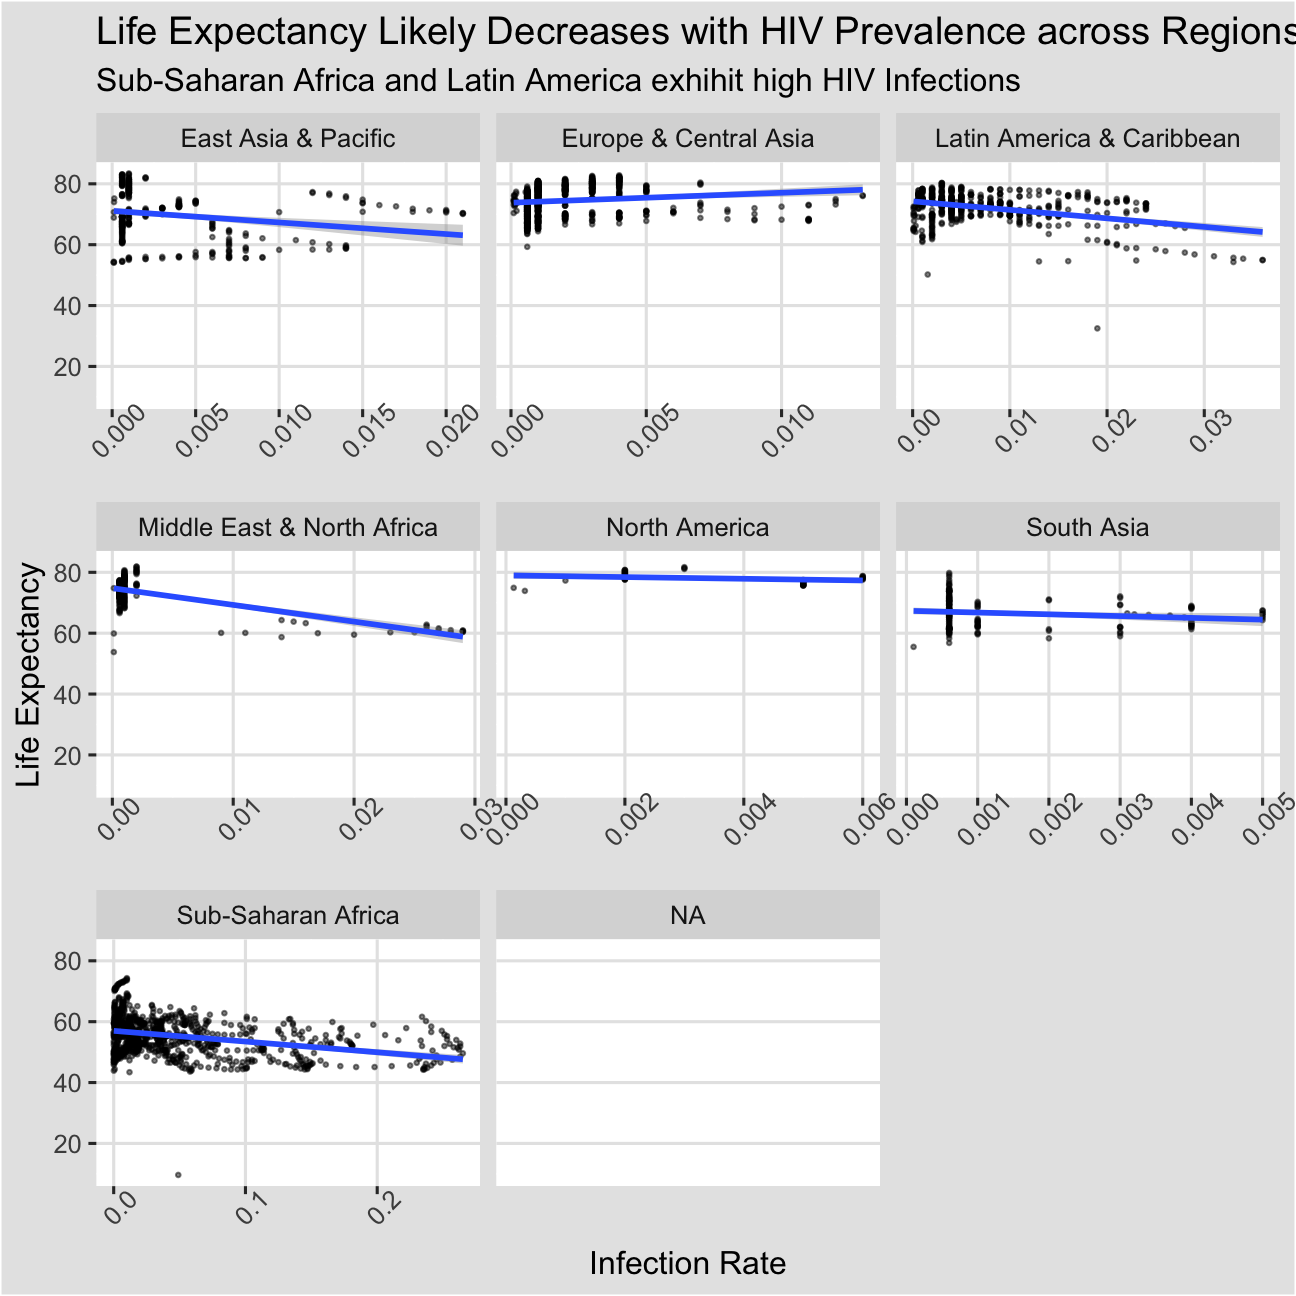
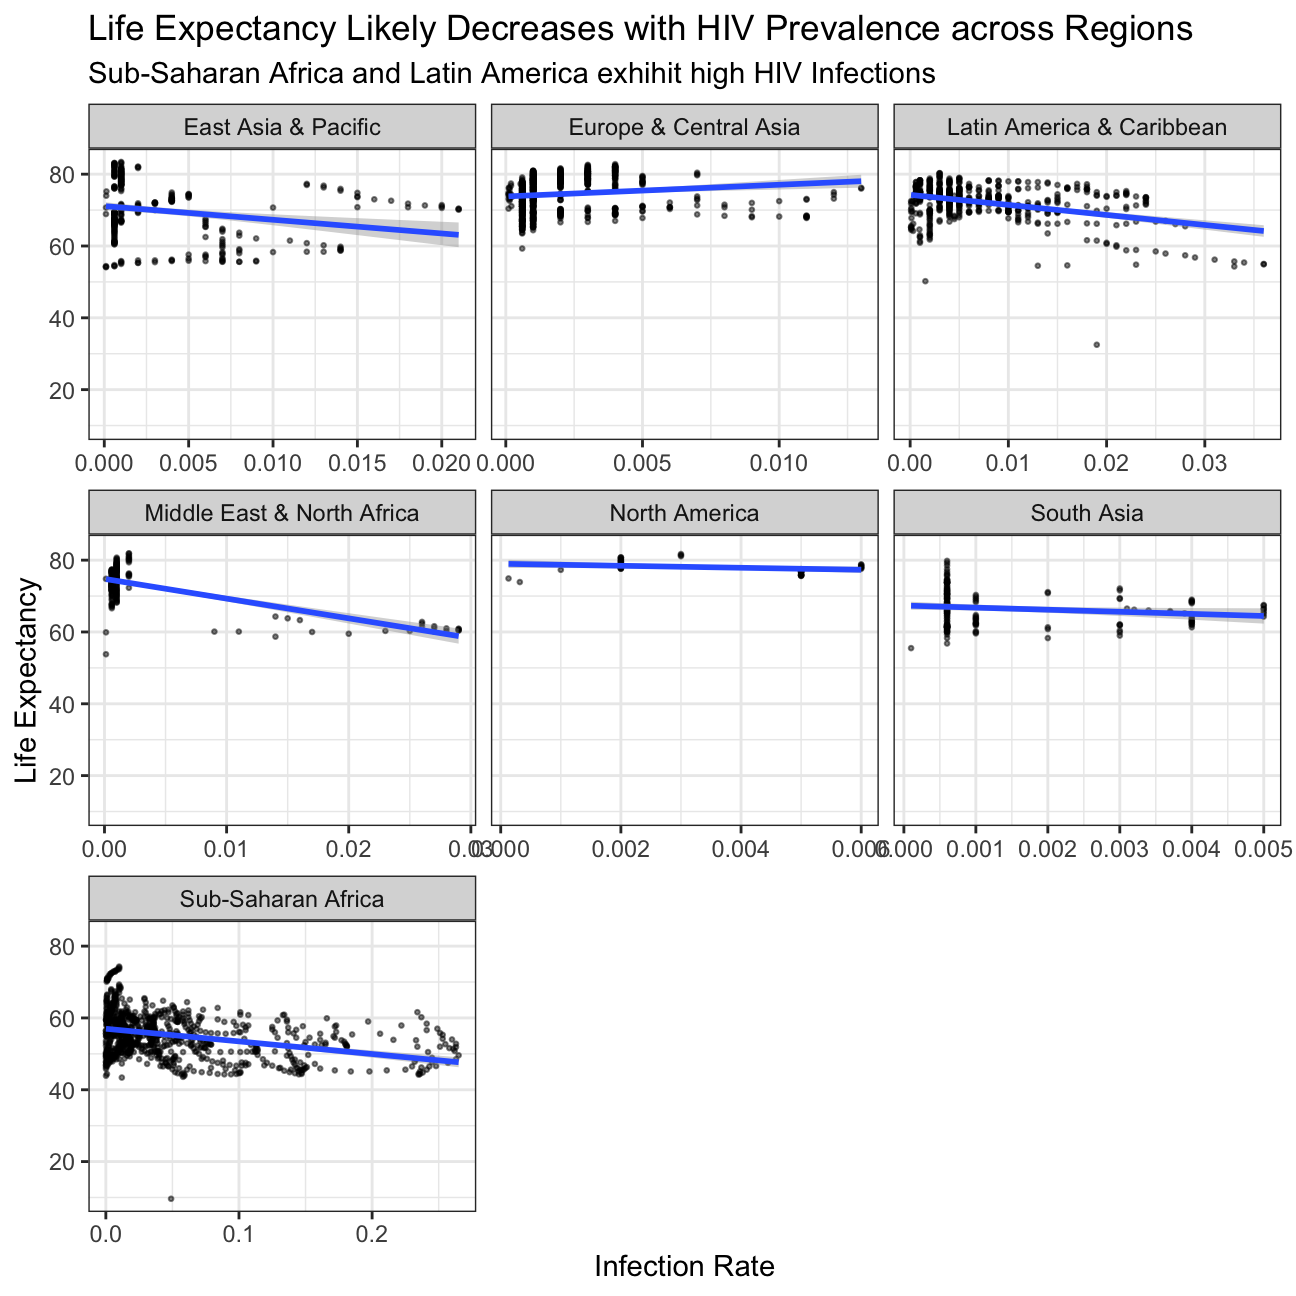
helpful message

diff --git a/content/projects/Life_expectancy.html b/content/projects/Life_expectancy.html
@@ -16,54 +16,69 @@ title: Gapminder
 <p>Gapminder allows us to gain insight about several social-economic factors such as life expectancy and GDP per capita for all countries around the globe. It is also meaningful to find out if there are correlations between these factors to understand the overall trend and make better decisions in the future.</p>
 <div id="relationship-between-hiv-infection-and-life-expectancy" class="section level2">
 <h2>Relationship between HIV Infection and Life Expectancy</h2>
-<pre class="r"><code>  ggplot(exp_hiv_worldbank,aes(x= Infection_Rate,y = Life_Expectancy, na.rm = TRUE))+
+<pre class="r"><code>  exp_hiv_worldbank %&gt;% 
+  filter(!is.na(Life_Expectancy)) %&gt;% 
+  ggplot(aes(x = Infection_Rate,
+             y = Life_Expectancy))+
   geom_point(na.rm = TRUE, col = &quot;black&quot;, cex = 0.5, alpha = 0.5)+
   facet_wrap(~region, ncol=3,nrow=3, scales = &quot;free_x&quot;)+
   geom_smooth(method = &quot;lm&quot;, na.rm = TRUE )+
-  theme_igray()+
+  theme_bw()+
   labs(title = &quot;Life Expectancy Likely Decreases with HIV Prevalence across Regions&quot;, 
        subtitle = &quot;Sub-Saharan Africa and Latin America exhihit high HIV Infections&quot;, 
-       x = &quot;Infection Rate&quot;, y = &quot;Life Expectancy&quot;)+
-  theme(axis.text.x = element_text(angle = 45))</code></pre>
+       x = &quot;Infection Rate&quot;, 
+       y = &quot;Life Expectancy&quot;)</code></pre>
 <p><img src="/projects/Life_expectancy_files/figure-html/hiv_life_exp-1.png" width="648" style="display: block; margin: auto;" /></p>
 <p>The life expectancy and HIV prevalence have negative relationships in all regions around the globe. However, the relationship is most prominent in Sub-Saharan Africa and it has much higher HIV infection rates than other regions.</p>
 </div>
 <div id="relationship-between-fertility-rate-and-gdp-per-capita" class="section level2">
 <h2>Relationship between Fertility Rate and GDP per Capita</h2>
-<pre class="r"><code>  ggplot(exp_hiv_worldbank,aes(x= Fertility_Rate,y = GDP_per_Capita, na.rm = TRUE))+
+<pre class="r"><code>  exp_hiv_worldbank %&gt;% 
+  filter(!is.na(region)) %&gt;% 
+  ggplot(aes(x= Fertility_Rate,
+             y = GDP_per_Capita))+
   geom_point(na.rm = TRUE, col = &quot;black&quot;, cex = 0.5, alpha = 0.5)+
   facet_wrap(~region, ncol=3,nrow=3, scales = &quot;free_y&quot;)+
   geom_smooth(method = &quot;auto&quot;, na.rm = TRUE )+
-  theme_igray()+
-  labs(title = &quot;GDP per Capita likely Decreases with Fertility Rates across Regions&quot;,
+  theme_gray()+
+  labs(title = &quot;GDP per Capita likely Decreases with Fertility Rates across Regions&quot;, 
        subtitle = &quot;GDP per Capita have large variations within regions, however&quot;, 
-       x = &quot;Fertility Rate&quot;, y = &quot;GDP per Capita&quot;)</code></pre>
+       x = &quot;Fertility Rate&quot;, 
+       y = &quot;GDP per Capita&quot;)</code></pre>
 <p><img src="/projects/Life_expectancy_files/figure-html/fertility_GDP_per_capita-1.png" width="648" style="display: block; margin: auto;" /></p>
 <p>We can observe from the graphs that GDP per Capita generally decreases with fertility rate, with a few exceptions in Europe &amp; Central Asia, where in the lower end of fertility rates tend to contribute to a higher GDP per Capita. This is likely due to the fact that many European countries have problems with aging societies, so their GDP per capita might increase with higher fertility rates to boost economic production. The overall negative relationship could be explained by the fact that with a fixed amount of GDP, GDP per capita and population are inversely related, so countries with low fertility rates tend to have less population and therefore higher GDP per Capita.</p>
 </div>
 <div id="change-in-mortality-rates-by-regions" class="section level2">
 <h2>Change in Mortality Rates by Regions</h2>
-<pre class="r"><code>ggplot(exp_hiv_worldbank,aes(x= Year, y = Mortality_Rate, na.rm = TRUE))+
+<pre class="r"><code>exp_hiv_worldbank %&gt;% 
+  filter(!is.na(region)) %&gt;% 
+  ggplot(aes(x= Year, 
+             y = Mortality_Rate))+
   geom_point(na.rm = TRUE, col = &quot;black&quot;, cex = 0.5, alpha = 0.5)+
   facet_wrap(~region, ncol=3,nrow=3, scales = &quot;free_y&quot;)+
   geom_smooth(method = &quot;auto&quot;, na.rm = TRUE )+
-  theme_igray()+
+  theme_gray()+
   labs(title = &quot;Mortality Decreased Over the Years in All Regions&quot;, 
        subtitle = &quot;North America sees the fastest improvement&quot;, 
-       x = &quot;Year&quot;, y = &quot;Mortality Rate&quot;)</code></pre>
+       x = &quot;Year&quot;, 
+       y = &quot;Mortality Rate&quot;)</code></pre>
 <p><img src="/projects/Life_expectancy_files/figure-html/mortality_rate_region-1.png" width="648" style="display: block; margin: auto;" /></p>
 <p>The mortality rate has improved(decreased) across all regions from 1960 to 2016. North America sees the greatest improvement, although its mortality rate was very low in 1960 compared to other regions.</p>
 </div>
 <div id="relationship-between-school-enrollment-and-fertility-rate" class="section level2">
 <h2>Relationship Between School Enrollment and Fertility Rate</h2>
-<pre class="r"><code>ggplot(exp_hiv_worldbank,aes(x= School_Enrollment, y = Fertility_Rate, na.rm = TRUE))+
+<pre class="r"><code>  exp_hiv_worldbank %&gt;% 
+  filter(!is.na(region)) %&gt;% 
+  ggplot(aes(x= School_Enrollment, 
+             y = Fertility_Rate))+
   geom_point(na.rm = TRUE, col = &quot;black&quot;, cex = 0.5, alpha = 0.5)+
   facet_wrap(~region, ncol=3,nrow=3, scales = &quot;free_x&quot;)+
   geom_smooth(method = &quot;lm&quot;, na.rm = TRUE )+
-  theme_igray()+
+  theme_gray()+
   labs(title = &quot;There is a Relatively Negative Relationship Between School Enrollment and Fertility Rate&quot;, 
        subtitle = &quot;The Relationship is Less Prominent in Europe and Central Asia&quot;, 
-       x = &quot;School Enrollment&quot;, y = &quot;Fertility Rate&quot;)</code></pre>
+       x = &quot;School Enrollment&quot;, 
+       y = &quot;Fertility Rate&quot;)</code></pre>
 <p><img src="/projects/Life_expectancy_files/figure-html/school_fertility-1.png" width="648" style="display: block; margin: auto;" /></p>
 <p>We can observe from the graphs that fertility rate and school enrollment are somewhat negatively related. However, it is less prominent in the Europe and Central Asia region as well as North America, possibly due to the fact that these regions consists of many developed countries where fertility rates are generally low and people can better afford education for children. For the rest of the regions, the negative relationship can be explained by the financial burden associated with more children, so a smaller proportion of them can attend primary schools.</p>
 </div>

diff --git a/public/projects/expectancy/index.html b/public/projects/expectancy/index.html
@@ -86,54 +86,69 @@
 <p>Gapminder allows us to gain insight about several social-economic factors such as life expectancy and GDP per capita for all countries around the globe. It is also meaningful to find out if there are correlations between these factors to understand the overall trend and make better decisions in the future.</p>
 <div id="relationship-between-hiv-infection-and-life-expectancy" class="section level2">
 <h2>Relationship between HIV Infection and Life Expectancy</h2>
-<pre class="r"><code>  ggplot(exp_hiv_worldbank,aes(x= Infection_Rate,y = Life_Expectancy, na.rm = TRUE))+
+<pre class="r"><code>  exp_hiv_worldbank %&gt;% 
+  filter(!is.na(Life_Expectancy)) %&gt;% 
+  ggplot(aes(x = Infection_Rate,
+             y = Life_Expectancy))+
   geom_point(na.rm = TRUE, col = &quot;black&quot;, cex = 0.5, alpha = 0.5)+
   facet_wrap(~region, ncol=3,nrow=3, scales = &quot;free_x&quot;)+
   geom_smooth(method = &quot;lm&quot;, na.rm = TRUE )+
-  theme_igray()+
+  theme_bw()+
   labs(title = &quot;Life Expectancy Likely Decreases with HIV Prevalence across Regions&quot;, 
        subtitle = &quot;Sub-Saharan Africa and Latin America exhihit high HIV Infections&quot;, 
-       x = &quot;Infection Rate&quot;, y = &quot;Life Expectancy&quot;)+
-  theme(axis.text.x = element_text(angle = 45))</code></pre>
+       x = &quot;Infection Rate&quot;, 
+       y = &quot;Life Expectancy&quot;)</code></pre>
 <p><img src="/projects/Life_expectancy_files/figure-html/hiv_life_exp-1.png" width="648" style="display: block; margin: auto;" /></p>
 <p>The life expectancy and HIV prevalence have negative relationships in all regions around the globe. However, the relationship is most prominent in Sub-Saharan Africa and it has much higher HIV infection rates than other regions.</p>
 </div>
 <div id="relationship-between-fertility-rate-and-gdp-per-capita" class="section level2">
 <h2>Relationship between Fertility Rate and GDP per Capita</h2>
-<pre class="r"><code>  ggplot(exp_hiv_worldbank,aes(x= Fertility_Rate,y = GDP_per_Capita, na.rm = TRUE))+
+<pre class="r"><code>  exp_hiv_worldbank %&gt;% 
+  filter(!is.na(region)) %&gt;% 
+  ggplot(aes(x= Fertility_Rate,
+             y = GDP_per_Capita))+
   geom_point(na.rm = TRUE, col = &quot;black&quot;, cex = 0.5, alpha = 0.5)+
   facet_wrap(~region, ncol=3,nrow=3, scales = &quot;free_y&quot;)+
   geom_smooth(method = &quot;auto&quot;, na.rm = TRUE )+
-  theme_igray()+
-  labs(title = &quot;GDP per Capita likely Decreases with Fertility Rates across Regions&quot;,
+  theme_gray()+
+  labs(title = &quot;GDP per Capita likely Decreases with Fertility Rates across Regions&quot;, 
        subtitle = &quot;GDP per Capita have large variations within regions, however&quot;, 
-       x = &quot;Fertility Rate&quot;, y = &quot;GDP per Capita&quot;)</code></pre>
+       x = &quot;Fertility Rate&quot;, 
+       y = &quot;GDP per Capita&quot;)</code></pre>
 <p><img src="/projects/Life_expectancy_files/figure-html/fertility_GDP_per_capita-1.png" width="648" style="display: block; margin: auto;" /></p>
 <p>We can observe from the graphs that GDP per Capita generally decreases with fertility rate, with a few exceptions in Europe &amp; Central Asia, where in the lower end of fertility rates tend to contribute to a higher GDP per Capita. This is likely due to the fact that many European countries have problems with aging societies, so their GDP per capita might increase with higher fertility rates to boost economic production. The overall negative relationship could be explained by the fact that with a fixed amount of GDP, GDP per capita and population are inversely related, so countries with low fertility rates tend to have less population and therefore higher GDP per Capita.</p>
 </div>
 <div id="change-in-mortality-rates-by-regions" class="section level2">
 <h2>Change in Mortality Rates by Regions</h2>
-<pre class="r"><code>ggplot(exp_hiv_worldbank,aes(x= Year, y = Mortality_Rate, na.rm = TRUE))+
+<pre class="r"><code>exp_hiv_worldbank %&gt;% 
+  filter(!is.na(region)) %&gt;% 
+  ggplot(aes(x= Year, 
+             y = Mortality_Rate))+
   geom_point(na.rm = TRUE, col = &quot;black&quot;, cex = 0.5, alpha = 0.5)+
   facet_wrap(~region, ncol=3,nrow=3, scales = &quot;free_y&quot;)+
   geom_smooth(method = &quot;auto&quot;, na.rm = TRUE )+
-  theme_igray()+
+  theme_gray()+
   labs(title = &quot;Mortality Decreased Over the Years in All Regions&quot;, 
        subtitle = &quot;North America sees the fastest improvement&quot;, 
-       x = &quot;Year&quot;, y = &quot;Mortality Rate&quot;)</code></pre>
+       x = &quot;Year&quot;, 
+       y = &quot;Mortality Rate&quot;)</code></pre>
 <p><img src="/projects/Life_expectancy_files/figure-html/mortality_rate_region-1.png" width="648" style="display: block; margin: auto;" /></p>
 <p>The mortality rate has improved(decreased) across all regions from 1960 to 2016. North America sees the greatest improvement, although its mortality rate was very low in 1960 compared to other regions.</p>
 </div>
 <div id="relationship-between-school-enrollment-and-fertility-rate" class="section level2">
 <h2>Relationship Between School Enrollment and Fertility Rate</h2>
-<pre class="r"><code>ggplot(exp_hiv_worldbank,aes(x= School_Enrollment, y = Fertility_Rate, na.rm = TRUE))+
+<pre class="r"><code>  exp_hiv_worldbank %&gt;% 
+  filter(!is.na(region)) %&gt;% 
+  ggplot(aes(x= School_Enrollment, 
+             y = Fertility_Rate))+
   geom_point(na.rm = TRUE, col = &quot;black&quot;, cex = 0.5, alpha = 0.5)+
   facet_wrap(~region, ncol=3,nrow=3, scales = &quot;free_x&quot;)+
   geom_smooth(method = &quot;lm&quot;, na.rm = TRUE )+
-  theme_igray()+
+  theme_gray()+
   labs(title = &quot;There is a Relatively Negative Relationship Between School Enrollment and Fertility Rate&quot;, 
        subtitle = &quot;The Relationship is Less Prominent in Europe and Central Asia&quot;, 
-       x = &quot;School Enrollment&quot;, y = &quot;Fertility Rate&quot;)</code></pre>
+       x = &quot;School Enrollment&quot;, 
+       y = &quot;Fertility Rate&quot;)</code></pre>
 <p><img src="/projects/Life_expectancy_files/figure-html/school_fertility-1.png" width="648" style="display: block; margin: auto;" /></p>
 <p>We can observe from the graphs that fertility rate and school enrollment are somewhat negatively related. However, it is less prominent in the Europe and Central Asia region as well as North America, possibly due to the fact that these regions consists of many developed countries where fertility rates are generally low and people can better afford education for children. For the rest of the regions, the negative relationship can be explained by the financial burden associated with more children, so a smaller proportion of them can attend primary schools.</p>
 </div>
